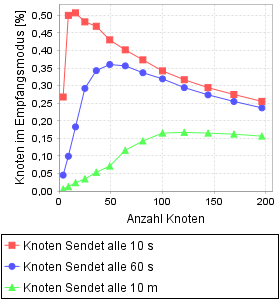
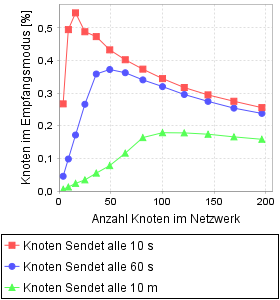
Bugfix

diff --git a/src/AODV_RFC/AodvNetworkNode.java b/src/AODV_RFC/AodvNetworkNode.java
@@ -8,6 +8,8 @@ import SimulationNetwork.PayloadMessage;
 
 public class AodvNetworkNode extends NetworkNode{
 	
+	private static final long HELLO_INTERVAL = 5*60000;	//HELLO_INTERVAL in ms
+	
 	private LinkedList<RouteTableEntry> routingTable;
 	private LinkedList<Message> waitingForRouteBuffer;
 	private LinkedList<TransmittedRREQ> transmittedRREQs;
@@ -15,6 +17,9 @@ public class AodvNetworkNode extends NetworkNode{
 	private int sequenceNumber;
 	private int rreqID;
 	private int numberRecivedRREPdMsg;
+	
+	private long helloInvervalCounter;
+	private boolean sendBroadcastMessageInCurrentHelloInterval;
 
 	public AodvNetworkNode(int id) {
 		super(id);
@@ -25,12 +30,45 @@ public class AodvNetworkNode extends NetworkNode{
 		this.sequenceNumber = 1;
 		this.rreqID = 1;
 		this.numberRecivedRREPdMsg = 0;
+		this.helloInvervalCounter = 0L;
+		this.sendBroadcastMessageInCurrentHelloInterval = false;
 	}
 
 	@Override
-	protected void performeTimeDependentTasks() {
-		// TODO Auto-generated method stub
+	protected void performeTimeDependentTasks(long executionTime) {
+		this.helloInvervalCounter += executionTime;
+		if(helloInvervalCounter >= HELLO_INTERVAL){
+			if(!sendBroadcastMessageInCurrentHelloInterval){
+				//Generate and send hello message
+			}
+			//reset helloInvervalCounter and msg send flag
+			this.helloInvervalCounter = 0L;
+			this.sendBroadcastMessageInCurrentHelloInterval = false;
+		}
 		
+	}
+	
+	private void generateHelloMessage(){
+		boolean nodeHasPrecursor = false;
+		
+		//Search for precursor
+		for(RouteTableEntry routeTableEntry: routingTable){
+			if(routeTableEntry.getPrecursorList().size() > 0){
+				nodeHasPrecursor = true;
+				break;
+			}
+		}
+		
+		if(nodeHasPrecursor){
+			//Node has at least one precursor -> generate and send hello message
+			RREP helloMsg = new RREP();
+			helloMsg.setDestination_IP_Adress(this.id);
+			helloMsg.setDestination_Sequence_Number(this.sequenceNumber);
+			helloMsg.setHop_Count(0);
+			helloMsg.setTimeToLive(1);
+			
+			this.sendMsg(helloMsg);
+		}
 	}
 
 	@Override
@@ -72,6 +110,8 @@ public class AodvNetworkNode extends NetworkNode{
 				return;
 			}
 		}
+		//RREQ not received and processed jet
+		recivedRREQs.add(new TransmittedRREQ(msg.getOriginator_IP_Adress(), msg.getRREQ_ID()));
 		
 		//Update routingtable for rreq originator
 		if(msg.getOriginator_IP_Adress() != this.id){
@@ -117,6 +157,9 @@ public class AodvNetworkNode extends NetworkNode{
 				}
 				rrep.setDestinationID(getNextHopToDestination(msg.getOriginator_IP_Adress()));
 				rrep.setSenderID(this.id);
+				rrep.setTimeToLive(msg.getHop_Count() *2);
+				
+				this.addNodeAsPrecursor(rrep.getDestinationID(), rrep.getDestination_IP_Adress());
 				
 				sendMsg(rrep);
 				
@@ -131,16 +174,32 @@ public class AodvNetworkNode extends NetworkNode{
 					
 					
 					sendMsg(rreqCopy);
-					
+					this.sendBroadcastMessageInCurrentHelloInterval = true;
 				}
 			}
 			
-			recivedRREQs.add(new TransmittedRREQ(msg.getOriginator_IP_Adress(), msg.getRREQ_ID()));
 		}		
+		
 	}
 	
-	private void updateRouteTable(int destination, int sequenceNumber, int hopCount, int nextHop){
+	private void addNodeAsPrecursor(int nodeID, int destination){
+		LinkedList<Integer> precursorList = null;
+		for(RouteTableEntry tableEntry: routingTable){
+			if(tableEntry.getDestinationAdress() == destination){
+				precursorList = tableEntry.getPrecursorList();
+
+				if(!precursorList.contains(nodeID)){
+					tableEntry.addPrecursor(nodeID);
+				}
+				
+				break;
+			}
+		}
+	}
+	
+	private boolean updateRouteTable(int destination, int sequenceNumber, int hopCount, int nextHop){
 		boolean routeAlreadyExists = false;
+		boolean routingTableUpdated = false;
 		for(RouteTableEntry route: routingTable){
 			if(route.getDestinationAdress() == destination){
 				routeAlreadyExists = true;
@@ -149,6 +208,7 @@ public class AodvNetworkNode extends NetworkNode{
 					route.setHopCount(hopCount);
 					route.setNextHop(nextHop);
 					route.setValid(true);
+					routingTableUpdated = true;
 					//TODO: set Lifetime
 					//route.setLifetime();
 				}
@@ -158,6 +218,7 @@ public class AodvNetworkNode extends NetworkNode{
 					route.setHopCount(hopCount);
 					route.setNextHop(nextHop);
 					route.setValid(true);
+					routingTableUpdated = true;
 					//TODO: set Lifetime
 					//route.setLifetime()
 				}
@@ -173,9 +234,12 @@ public class AodvNetworkNode extends NetworkNode{
 			route.setHopCount(hopCount);
 			route.setNextHop(nextHop);
 			route.setValid(true);
+			routingTableUpdated = true;
 			//route.setLifetime();
 			routingTable.add(route);
 		}
+		
+		return routingTableUpdated;
 	}
 	
 	private int getNextHopToDestination(int destination){
@@ -196,17 +260,24 @@ public class AodvNetworkNode extends NetworkNode{
 		int nextHopCount = msg.getHop_Count() +1;
 		
 		//Update routing table for desintation node
-		updateRouteTable(msg.getDestination_IP_Adress(), msg.getDestination_Sequence_Number(), nextHopCount, msg.getSenderID());
-		
-		if(msg.getOrignator_IP_Adress() != this.id){
-			if(msg.getDestinationID() == this.id){
-				//foward RREP to originator node
-				RREP copyRREP = msg.clone();
-				copyRREP.setSenderID(this.id);
-				copyRREP.setDestinationID(getNextHopToDestination(msg.getOrignator_IP_Adress()));
-				copyRREP.setHop_Count(nextHopCount);
-				
-				sendMsg(copyRREP);
+		if(updateRouteTable(msg.getDestination_IP_Adress(), msg.getDestination_Sequence_Number(), nextHopCount, msg.getSenderID())){
+			//Forward RREP if routing table was updated
+			
+			//Forward RREP-Message if TTL > 0
+			if(msg.getOrignator_IP_Adress() != this.id){
+				if(msg.getDestinationID() == this.id){
+					if(msg.getTimeToLive() > 1){
+						//foward RREP to originator node
+						RREP copyRREP = msg.clone();
+						copyRREP.setSenderID(this.id);
+						copyRREP.setDestinationID(getNextHopToDestination(msg.getOrignator_IP_Adress()));
+						copyRREP.setHop_Count(nextHopCount);
+						copyRREP.setTimeToLive(msg.getTimeToLive() -1);
+						sendMsg(copyRREP);
+						//System.out.println(""+simulator.getNetworkLifetime() +": Node "+ this.id + ": forward RREP");
+						this.addNodeAsPrecursor(copyRREP.getDestinationID(), copyRREP.getDestination_IP_Adress());
+					}
+				}
 			}
 		}
 		
@@ -346,7 +417,7 @@ public class AodvNetworkNode extends NetworkNode{
 	@Override
 	public void startSendingProcess(PayloadMessage tmpMsg) {
 		
-		System.out.println(""+simulator.getNetworkLifetime() +": Node " +  this.id + ": start transmission process, msg destination: " + tmpMsg.getPayloadDestinationAdress() );
+		//System.out.println(""+simulator.getNetworkLifetime() +": Node " +  this.id + ": start transmission process, msg destination: " + tmpMsg.getPayloadDestinationAdress() );
 		
 		tmpMsg.setStartTransmissionTime(simulator.getNetworkLifetime());
 		tmpMsg.setSenderID(this.id);

diff --git a/src/SimulationNetwork/Simulator.java b/src/SimulationNetwork/Simulator.java
@@ -131,16 +131,16 @@ public abstract class Simulator {
 
 		for (int id = 0; id < networkNodes.length; id++) {
 			consumedEnergyInIdleMode += networkNodes[id].getConsumedEnergyInIdleMode();
-			System.out.println("Node " + id + ": consumedEnergy idle: " + networkNodes[id].getConsumedEnergyInIdleMode() + ", time in idleMode " + (networkNodes[id].getIdleTime() +networkNodes[id].getWaitingTimeForMediumAccesPermission()) + ", time in recive mode "+ networkNodes[id].getReciveTime() + ", time in transmit mode " + networkNodes[id].getTransmissionTime() );
+			//System.out.println("Node " + id + ": consumedEnergy idle: " + networkNodes[id].getConsumedEnergyInIdleMode() + ", time in idleMode " + (networkNodes[id].getIdleTime() +networkNodes[id].getWaitingTimeForMediumAccesPermission()) + ", time in recive mode "+ networkNodes[id].getReciveTime() + ", time in transmit mode " + networkNodes[id].getTransmissionTime() );
 			consumedEnergyInReciveMode += networkNodes[id].getConsumedEnergyInReciveMode();
 			consumedEnergyInTransmissionMode += networkNodes[id].getConsumedEnergyInTransmissionMode();
 		}
 		
 		calculateAverageNodeTimes(graph.getNetworkNodes());
 		
-		System.out.println("Consumed energy idle mode: " + consumedEnergyInIdleMode + ", time in idle mode: " + (this.averageTimeInIdleMode + this.averageTimeWaitingForMediumAccesPermission));
-		System.out.println("Consumed energy recive mode: " + consumedEnergyInReciveMode + ", time in recive mode: " + this.averageTimeInTransmissionMode);
-		System.out.println("Consumed energy transmit mode: " + consumedEnergyInTransmissionMode + ", time in transmit mode: " + this.averageTimeInReciveMode);
+		//System.out.println("Consumed energy idle mode: " + consumedEnergyInIdleMode + ", time in idle mode: " + (this.averageTimeInIdleMode + this.averageTimeWaitingForMediumAccesPermission));
+		//System.out.println("Consumed energy recive mode: " + consumedEnergyInReciveMode + ", time in recive mode: " + this.averageTimeInTransmissionMode);
+		//System.out.println("Consumed energy transmit mode: " + consumedEnergyInTransmissionMode + ", time in transmit mode: " + this.averageTimeInReciveMode);
 
 		return (consumedEnergyInIdleMode + consumedEnergyInReciveMode + consumedEnergyInTransmissionMode);
 	}

diff --git a/src/SimulationNetwork/NetworkNode.java b/src/SimulationNetwork/NetworkNode.java
@@ -53,7 +53,7 @@ public abstract class NetworkNode {
 		inputBuffer = new LinkedList<Message>();
 		outputBuffer = new LinkedList<Message>();
 		// availableEnery = 4600L*3600L*1000L*1000L;
-		availableEnery = NODE_BATTERY_ENERGY_FOR_ONE_DAY_IN_IDLE_MODE;
+		availableEnery = NODE_BATTERY_ENERGY_FOR_ONE_HOUR_IN_IDLE_MODE;
 		idleTime = 0L;
 		reciveTime = 0L;
 		transmissionTime = 0L;
@@ -80,7 +80,7 @@ public abstract class NetworkNode {
 		}
 		if (nodeAlive) {
 
-			performeTimeDependentTasks();
+			performeTimeDependentTasks(executionTime);
 
 			if (incommingMsg != null) {
 				// Currently resiving a message
@@ -187,7 +187,7 @@ public abstract class NetworkNode {
 		return true;
 	}
 
-	protected abstract void performeTimeDependentTasks();
+	protected abstract void performeTimeDependentTasks(long executionTime);
 
 	public abstract void processRecivedMessage();
 

diff --git a/src/AODV_RFC/RouteTableEntry.java b/src/AODV_RFC/RouteTableEntry.java
@@ -1,5 +1,7 @@
 package AODV_RFC;
 
+import java.util.LinkedList;
+
 public class RouteTableEntry {
 
 	private int destinationAdress;
@@ -9,9 +11,10 @@ public class RouteTableEntry {
 	private int nextHop;
 	private int lifetime;
 	private boolean valid;
+	private LinkedList<Integer> precursorList;
 	
 	public RouteTableEntry(){
-		
+		precursorList = new LinkedList<Integer>();
 	}
 	
 	
@@ -71,6 +74,16 @@ public class RouteTableEntry {
 
 	public void setValid(boolean valid) {
 		this.valid = valid;
+	}
+
+
+	public LinkedList<Integer> getPrecursorList() {
+		return precursorList;
+	}
+
+
+	public void addPrecursor(Integer precursor) {
+		this.precursorList.add(precursor);
 	}
 	
 }

diff --git a/src/Simulator/Main.java b/src/Simulator/Main.java
@@ -23,9 +23,9 @@ public class Main {
 		
 		AodvEvaluationUnit aodvEvaluationUnit = new AodvEvaluationUnit();
 		//aodvEvaluationUnit.evaluateSpeedAnalysis();
-		aodvEvaluationUnit.evaluateCostAnalysis();
+		//aodvEvaluationUnit.evaluateCostAnalysis();
 		//aodvEvaluationUnit.evaluateNetworkLivetimeStaticSendBehavior(1);
-		//aodvEvaluationUnit.evaluateNetworkLivetimeStaticSendBehavior(10);
+		aodvEvaluationUnit.evaluateNetworkLivetimeStaticSendBehavior(10);
 		//aodvEvaluationUnit.evaluateNetworkLivetimeStaticSendBehavior(100);
 		//aodvEvaluationUnit.evaluateNetworkLivetimeStaticSendBehavior(1000);
 		//aodvEvaluationUnit.evaluateNetworkLivetimeStaticSendBehavior(10000);

diff --git a/src/AODV_RFC/RREP.java b/src/AODV_RFC/RREP.java
@@ -12,7 +12,7 @@ public class RREP extends Message{
 	private int Destination_IP_Adress;
 	private int Destination_Sequence_Number;
 	private int Orignator_IP_Adress;
-	private int Lifetime;
+	private long Lifetime;
 	
 	public RREP(){
 		this.setDataVolume(5*32);
@@ -146,13 +146,13 @@ public class RREP extends Message{
 	/**
 	 * @return the lifetime
 	 */
-	public int getLifetime() {
+	public long getLifetime() {
 		return Lifetime;
 	}
 	/**
 	 * @param lifetime the lifetime to set
 	 */
-	public void setLifetime(int lifetime) {
+	public void setLifetime(long lifetime) {
 		Lifetime = lifetime;
 	}
 }

diff --git a/src/Flooding/FloodingNetworkNode.java b/src/Flooding/FloodingNetworkNode.java
@@ -23,7 +23,7 @@ public class FloodingNetworkNode extends NetworkNode{
 	}
 
 	@Override
-	protected void performeTimeDependentTasks() {
+	protected void performeTimeDependentTasks(long executionTime) {
 		long currentTime = simulator.getNetworkLifetime();
 		LinkedList<PayloadMessage> msgToDelete = new LinkedList<PayloadMessage>();
 		for(PayloadMessage msg: recivedMessages){

diff --git a/src/DSDV/DsdvNetworkNode.java b/src/DSDV/DsdvNetworkNode.java
@@ -10,7 +10,7 @@ public class DsdvNetworkNode extends NetworkNode{
 		// TODO Auto-generated constructor stub
 	}
 	
-	protected void performeTimeDependentTasks(){
+	protected void performeTimeDependentTasks(long executionTime){
 		
 		//Send routing updates to neighbors
 	}

diff --git a/src/AODV/AodvNetworkNode.java b/src/AODV/AodvNetworkNode.java
@@ -332,7 +332,7 @@ public class AodvNetworkNode extends NetworkNode {
 		
 	}
 	
-	protected void performeTimeDependentTasks(){
+	protected void performeTimeDependentTasks(long executionTime){
 		//Clear memory of node
 		/*
 		
